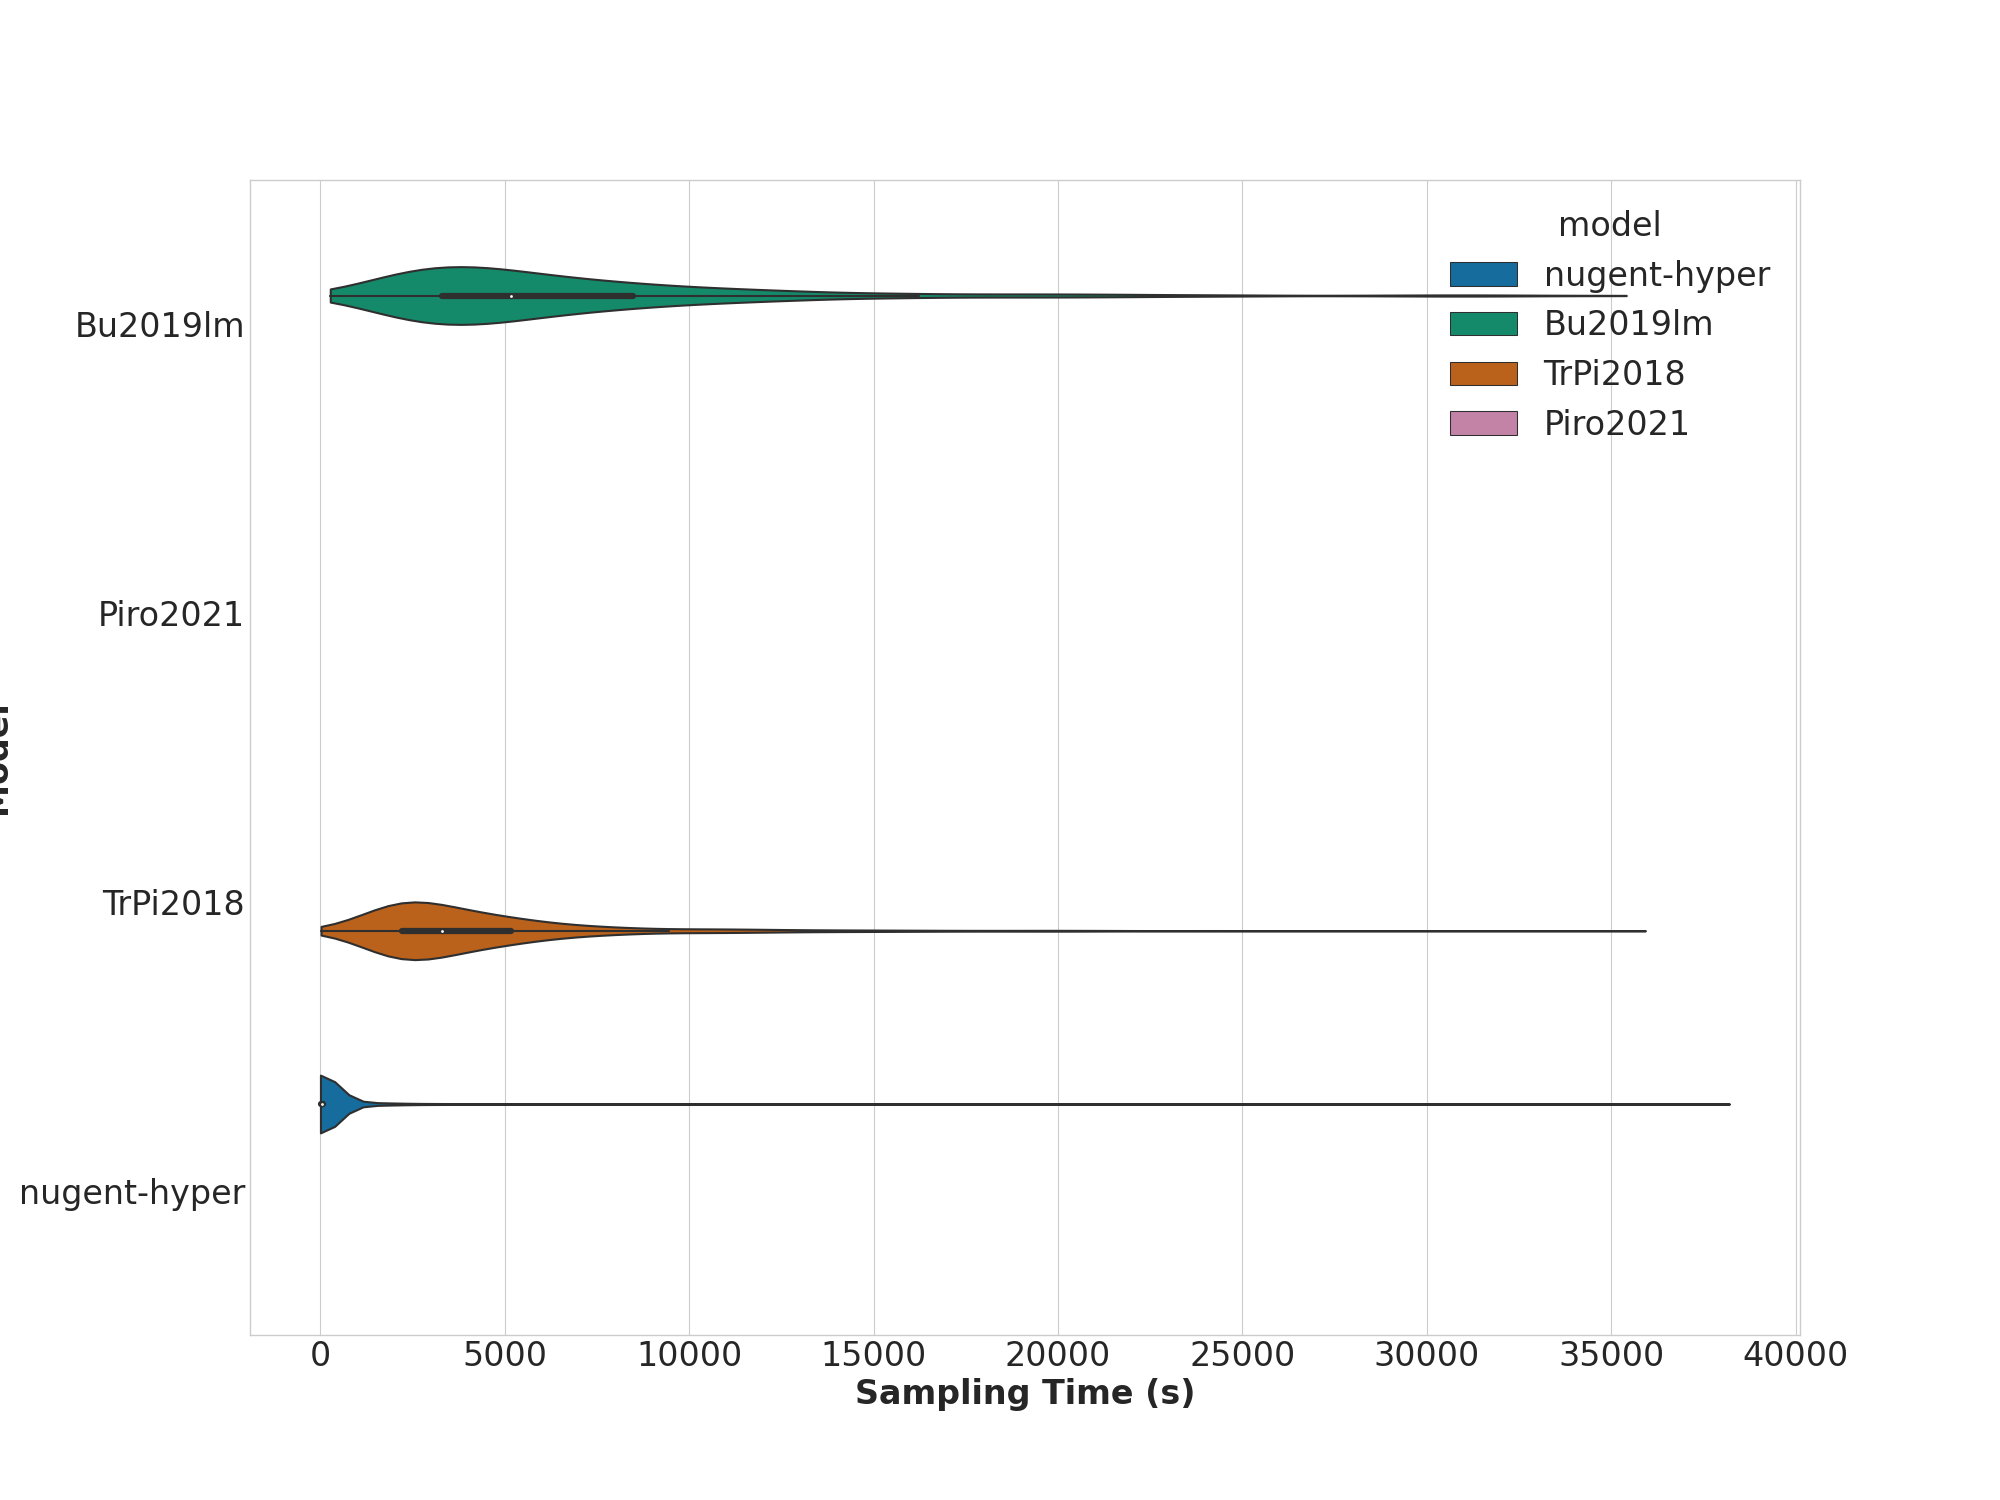
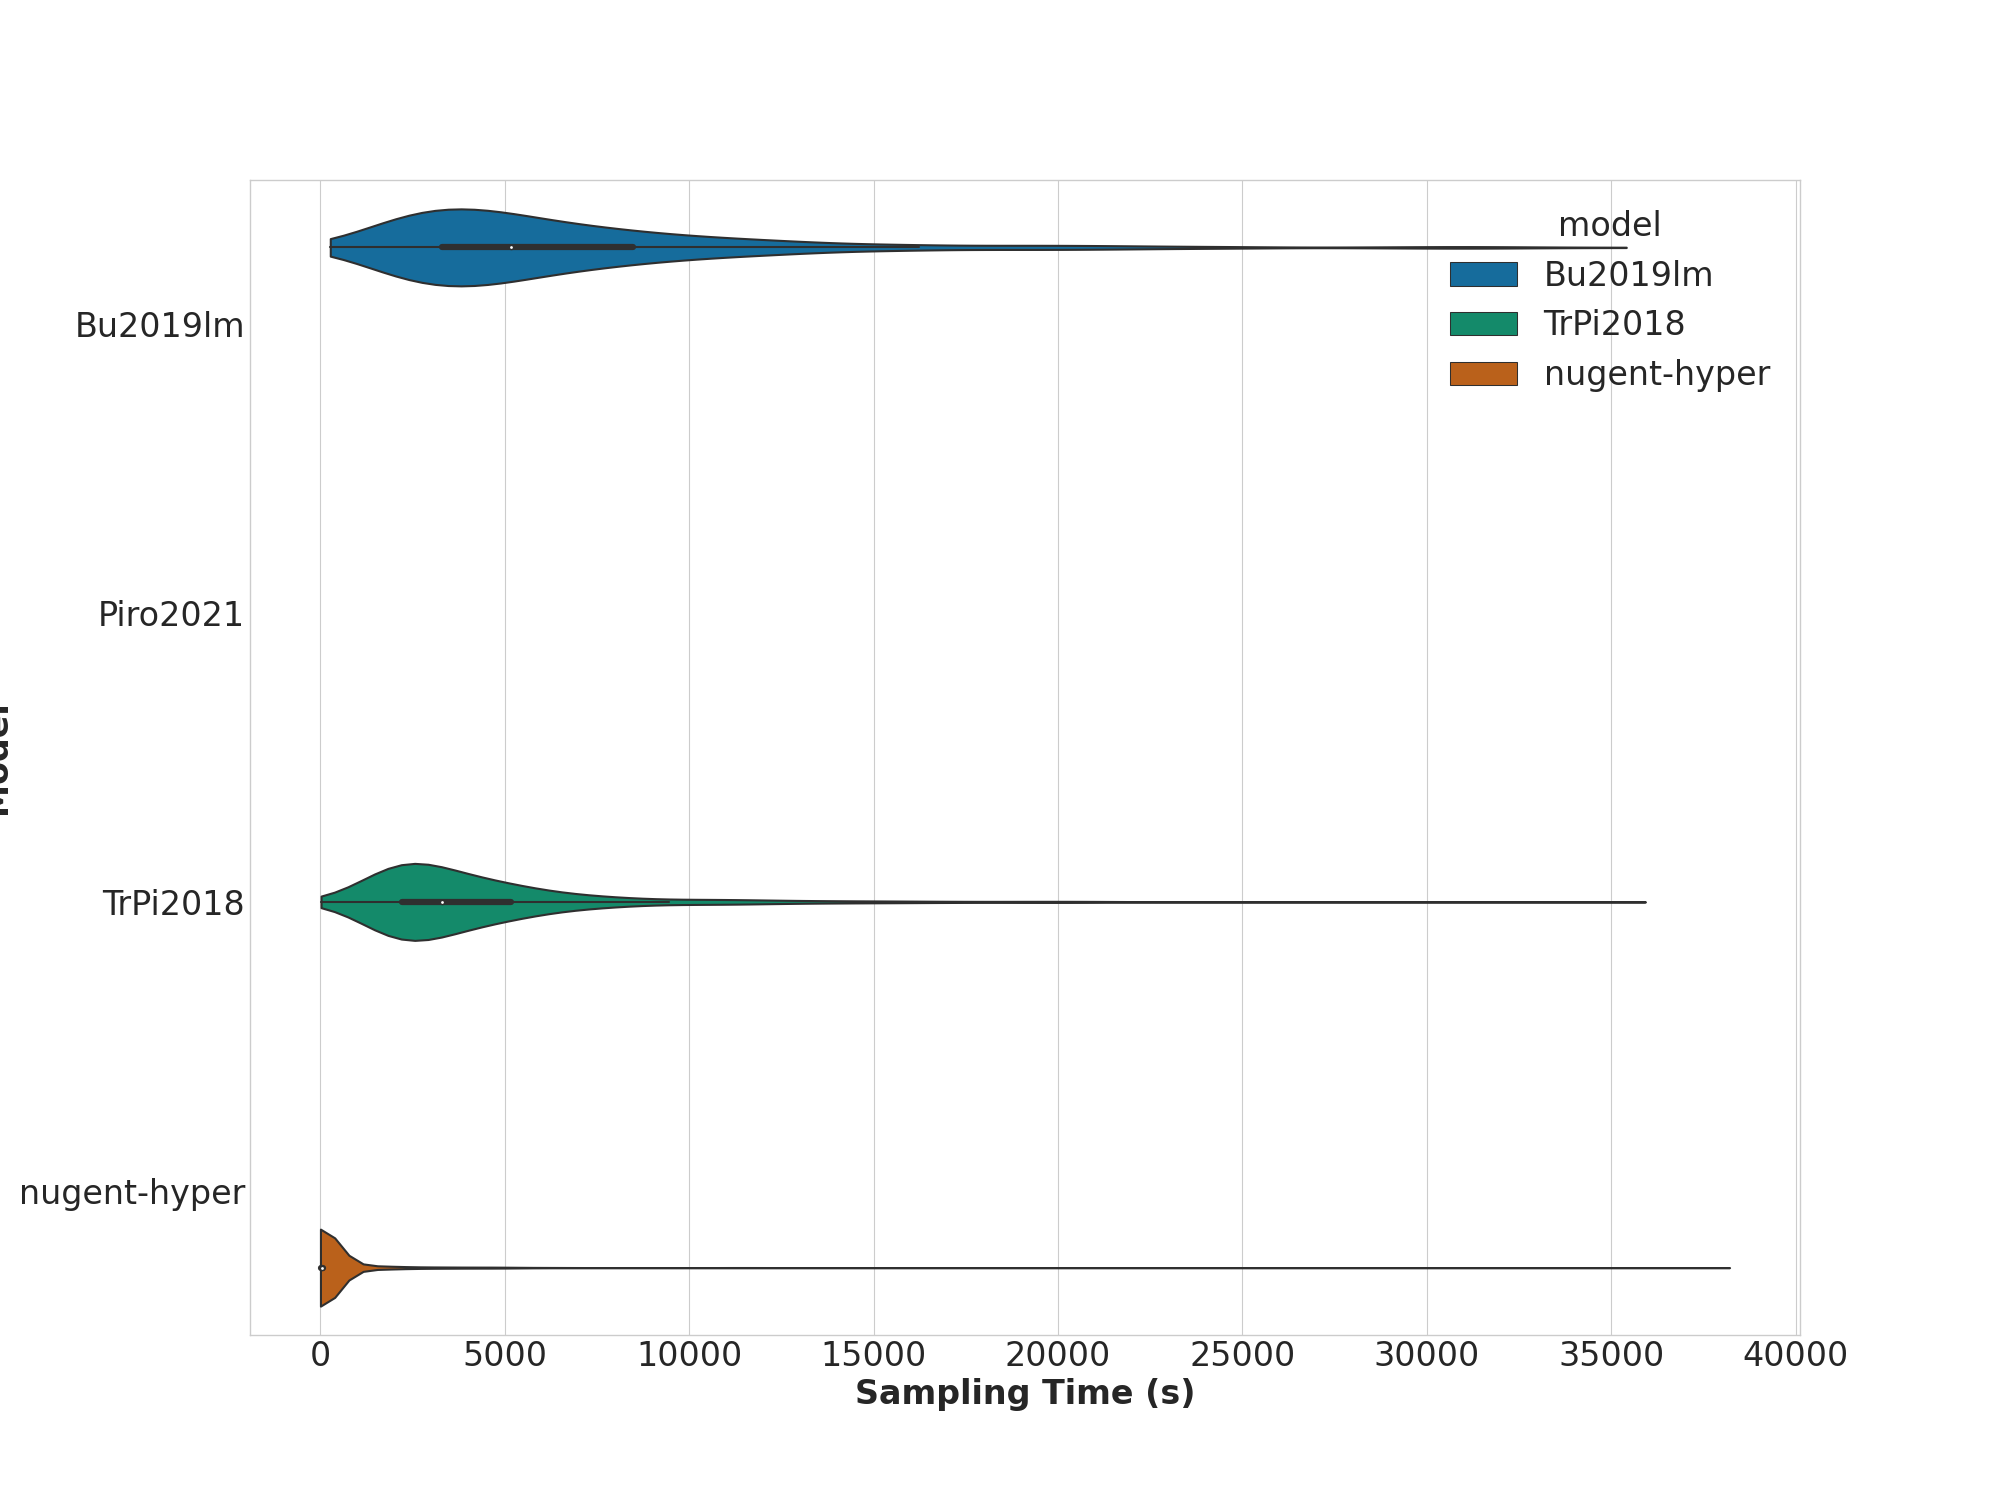
altered hue order in sampling Time
so the hue order is consistent across plots used in paper (behaviour of stacking plots with hues requires models to be input such that the models provided via argument need to be ordered from largest to smallest in terms of proportion of quantity, in this case computation time, in order to be plotted in a coherent way)

diff --git a/stats.py b/stats.py
@@ -851,7 +851,7 @@ def plotSamplingTimes(df, models=args.models, save=True, outdir=args.outdir, ext
     ## plot the cumulative daily fit time for each model
     fig, ax = plotstyle(figsize=(20,15), facecolor='white')
     
-    plot= sns.histplot(data=df_f, x=df_f['stopDate'],weights='sampling_time_total', hue='model', #hue_order=models,
+    plot= sns.histplot(data=df_f, x=df_f['stopDate'],weights='sampling_time_total', hue='model', hue_order=models,
                        multiple='stack',legend='full', cumulative=True,
                        ax=ax, alpha=0.75,bins=69,linewidth=2)
     ax.set_xlabel("Date")
@@ -1191,7 +1191,7 @@ def plotLikelihood(df, models=args.models, save=True, outdir=args.outdir, ext='.
 
 
 ## command:
-## python3 ./stats.py -c ./candidate_data/pipelineStructureExample/candidates/partnership -f  ./candidate_data/pipelineStructureExample/candidate_fits -o ./msiStats  --datafile ./msiStats/statsDataframe.csv --verbose -m nugent-hyper Bu2019lm TrPi2018 Piro2021
+## python3 ./stats.py -c ./candidate_data/pipelineStructureExample/candidates/partnership -f  ./candidate_data/pipelineStructureExample/candidate_fits -o ./msiStats  --datafile ./msiStats/statsDataframe.csv --verbose -m Bu2019lm TrPi2018 nugent-hyper Piro2021
 
 df = get_dataframe(candDir=args.candDir, models=args.models, save=False, file=args.datafile)
 df = df.copy()[df['model'].isin(args.models)] ## so we only consider the models we want to plot
@@ -1296,7 +1296,7 @@ for model in args.models:
 
 ## running functions to plot results
 
-# df = get_dataframe(candDir=args.candDir, models=args.models, save=False, file=args.datafile)
+df = get_dataframe(candDir=args.candDir, models=args.models, save=False, file=args.datafile)
 # plotCands(df=df,save=True)
 # print('completed daily candidate plots (1)\n') if args.verbose else None
 
@@ -1306,8 +1306,8 @@ for model in args.models:
 # plotUnfit(df=df)
 # print('completed unfit candidate plot (3)\n') if args.verbose else None
 
-# plotSamplingTimes(df=df)
-# print('completed sampling time plot (4)\n') if args.verbose else None
+plotSamplingTimes(df=df)
+print('completed sampling time plot (4)\n') if args.verbose else None
 
 # plotLikelihood(df=df)
 # print('completed evidence plot (5)\n') if args.verbose else None
